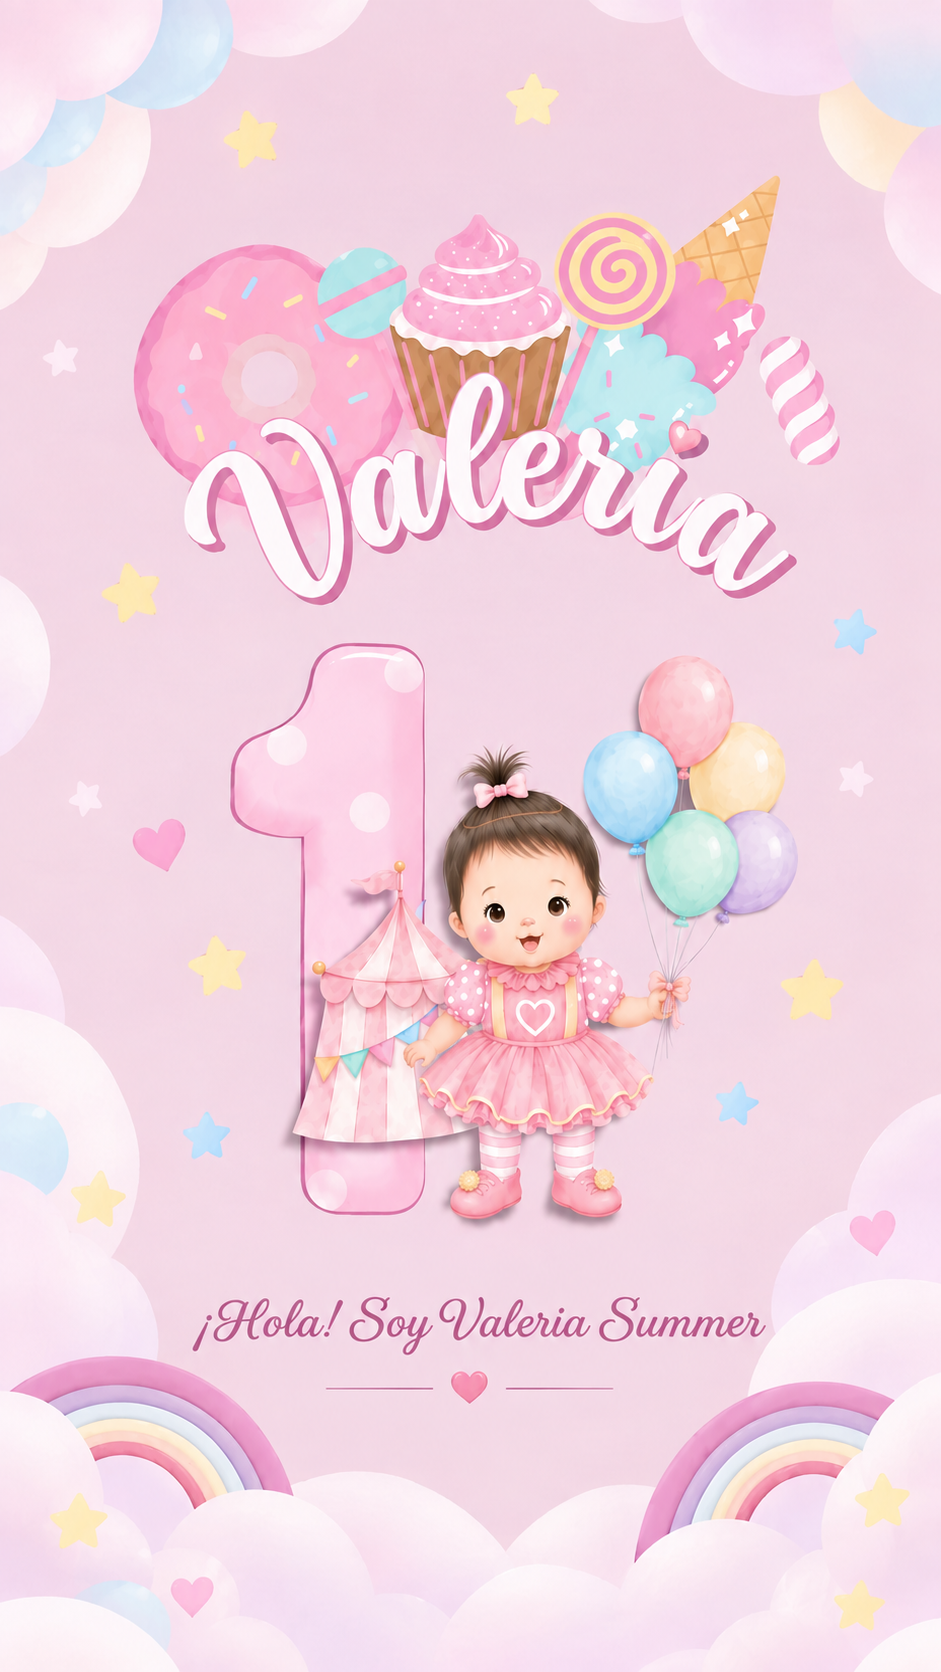
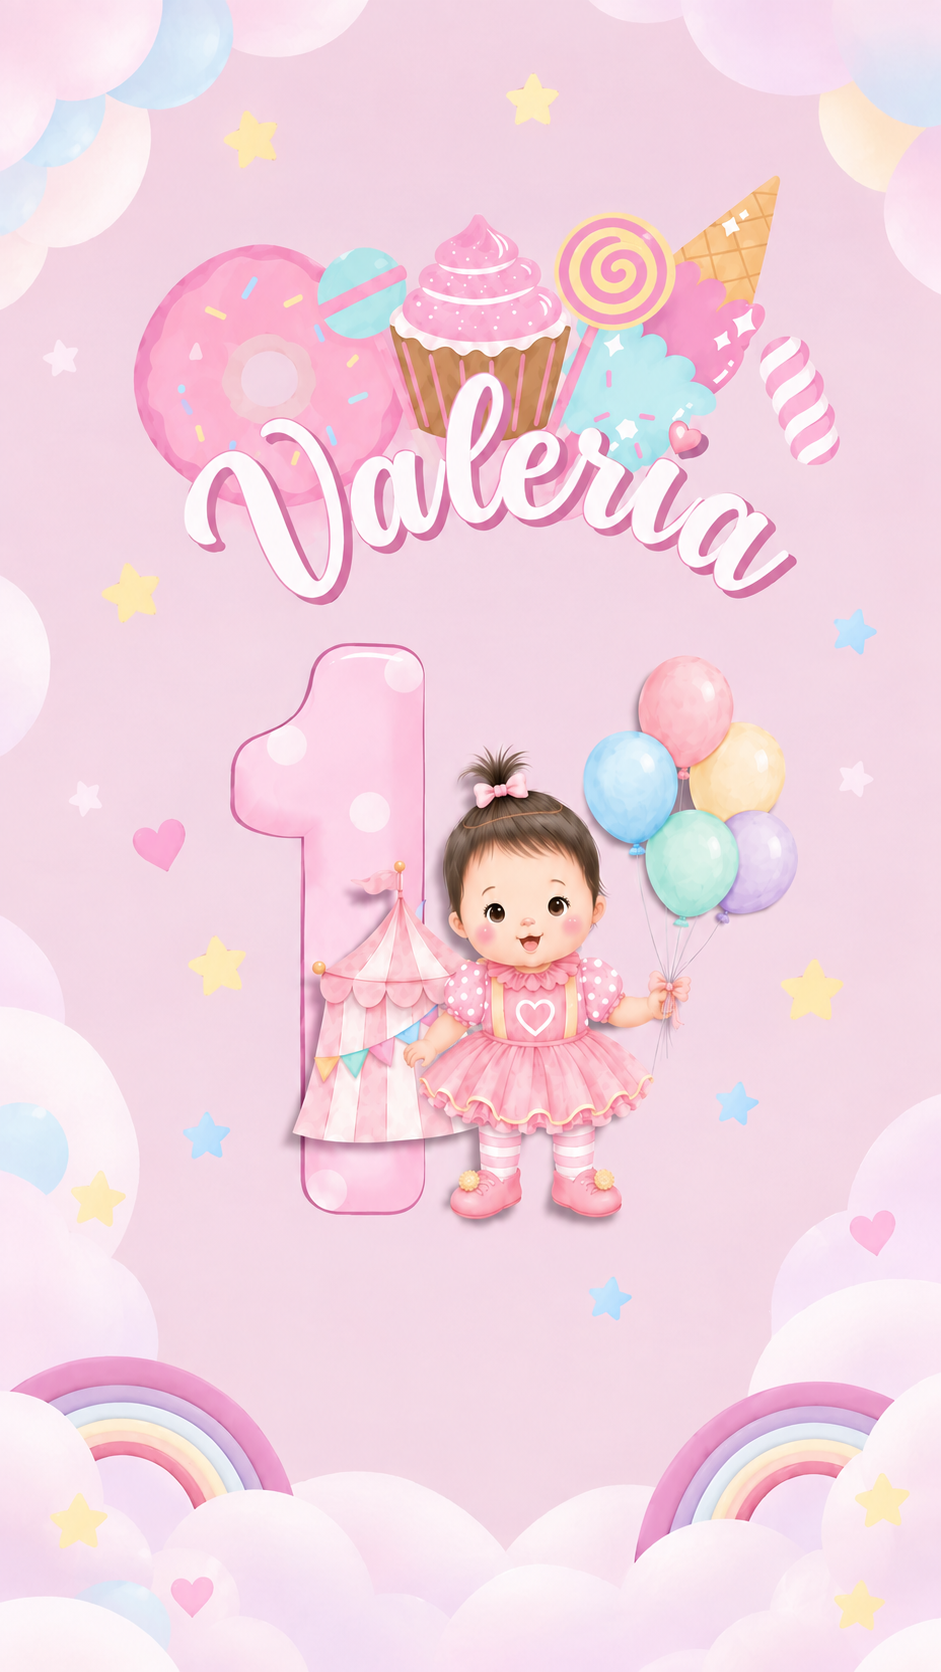
final_valeria_primerañito

Changed region(s): [[0.2157, 0.7464, 0.8013, 0.8397]]

diff --git a/Valeria_mi_primer_añito/style.css b/Valeria_mi_primer_añito/style.css
@@ -1,4 +1,3 @@
-
 * {
     margin: 0;
     padding: 0;
@@ -10,13 +9,22 @@ body {
     margin: 0;
     padding: 0;
     width: 100%;
+    min-height: 100%;
     background: black;
     overflow-x: hidden;
 }
 
+body {
+    -webkit-tap-highlight-color: transparent;
+}
+
+/* =========================
+   GALERÍA / INVITACIÓN
+   ========================= */
+
 .galeria {
     width: 100%;
-    max-width: 430px;
+    max-width: none;
     margin: 0 auto;
 }
 
@@ -26,7 +34,10 @@ body {
     height: auto;
 }
 
-/* Botón de música flotante */
+/* =========================
+   BOTÓN DE MÚSICA
+   ========================= */
+
 .music-container {
     position: fixed;
     top: 20px;
@@ -37,14 +48,34 @@ body {
 .music-button {
     width: 55px;
     height: 55px;
+
     border: none;
+    outline: none;
+
     border-radius: 50%;
+
     background: #f8b8cc;
     color: white;
+
     font-size: 22px;
+    line-height: 55px;
+
     cursor: pointer;
+
+    display: flex;
+    align-items: center;
+    justify-content: center;
+
     box-shadow: 0 4px 12px rgba(0, 0, 0, 0.18);
-    transition: transform 0.2s ease, background 0.2s ease;
+
+    transition:
+        transform 0.2s ease,
+        background 0.2s ease;
+
+    /* Evita el efecto de selección/tap en celulares */
+    -webkit-tap-highlight-color: transparent;
+    -webkit-appearance: none;
+    appearance: none;
 }
 
 .music-button:hover {
@@ -56,16 +87,24 @@ body {
     transform: scale(0.95);
 }
 
-/* Ocultar reproductor de audio */
+/* Evita el borde que algunos navegadores ponen al tocar */
+.music-button:focus,
+.music-button:focus-visible {
+    outline: none;
+    box-shadow: 0 4px 12px rgba(0, 0, 0, 0.18);
+}
+
+/* =========================
+   AUDIO
+   ========================= */
+
 audio {
     display: none;
 }
 
-.ultima-imagen {
-    position: relative;
-    width: 100%;
-    padding-bottom:-100px;
-}
+/* =========================
+   ÚLTIMA IMAGEN
+   ========================= */
 
 .ultima-imagen {
     position: relative;
@@ -78,20 +117,34 @@ audio {
     height: auto;
 }
 
+/* =========================
+   BOTÓN WHATSAPP
+   ========================= */
+
 .asistencia-button {
     position: absolute;
+
     bottom: 80px;
     left: 50%;
+
     transform: translateX(-50%);
+
     z-index: 10;
+
     display: block;
+
+    -webkit-tap-highlight-color: transparent;
 }
 
 .asistencia-button img {
     width: 220px;
+    max-width: 70vw;
     height: auto;
+
     display: block;
+
     cursor: pointer;
+
     transition: transform 0.2s ease;
 }
 
@@ -103,3 +156,47 @@ audio {
     transform: scale(0.95);
 }
 
+/* =========================
+   CELULARES PEQUEÑOS
+   ========================= */
+
+@media (max-width: 380px) {
+
+    .music-container {
+        top: 12px;
+        right: 12px;
+    }
+
+    .music-button {
+        width: 48px;
+        height: 48px;
+        line-height: 48px;
+        font-size: 19px;
+    }
+
+    .asistencia-button {
+        bottom: 50px;
+    }
+
+    .asistencia-button img {
+        width: 190px;
+    }
+}
+
+/* =========================
+   CELULARES GRANDES
+   ========================= */
+
+@media (min-width: 381px) and (max-width: 600px) {
+
+    .music-container {
+        top: 16px;
+        right: 16px;
+    }
+
+    .music-button {
+        width: 52px;
+        height: 52px;
+        line-height: 52px;
+    }
+}
